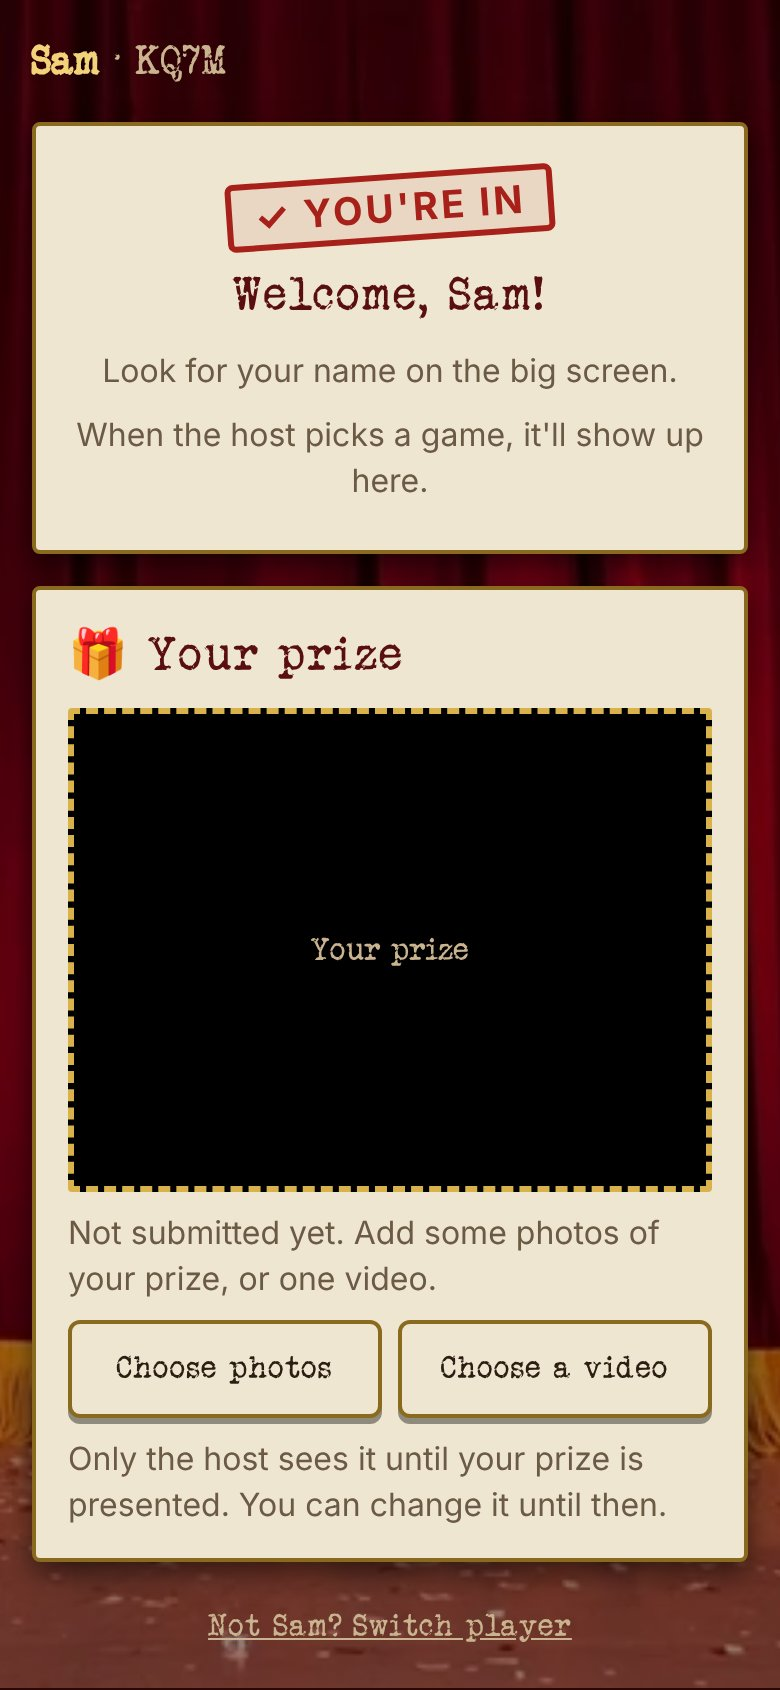
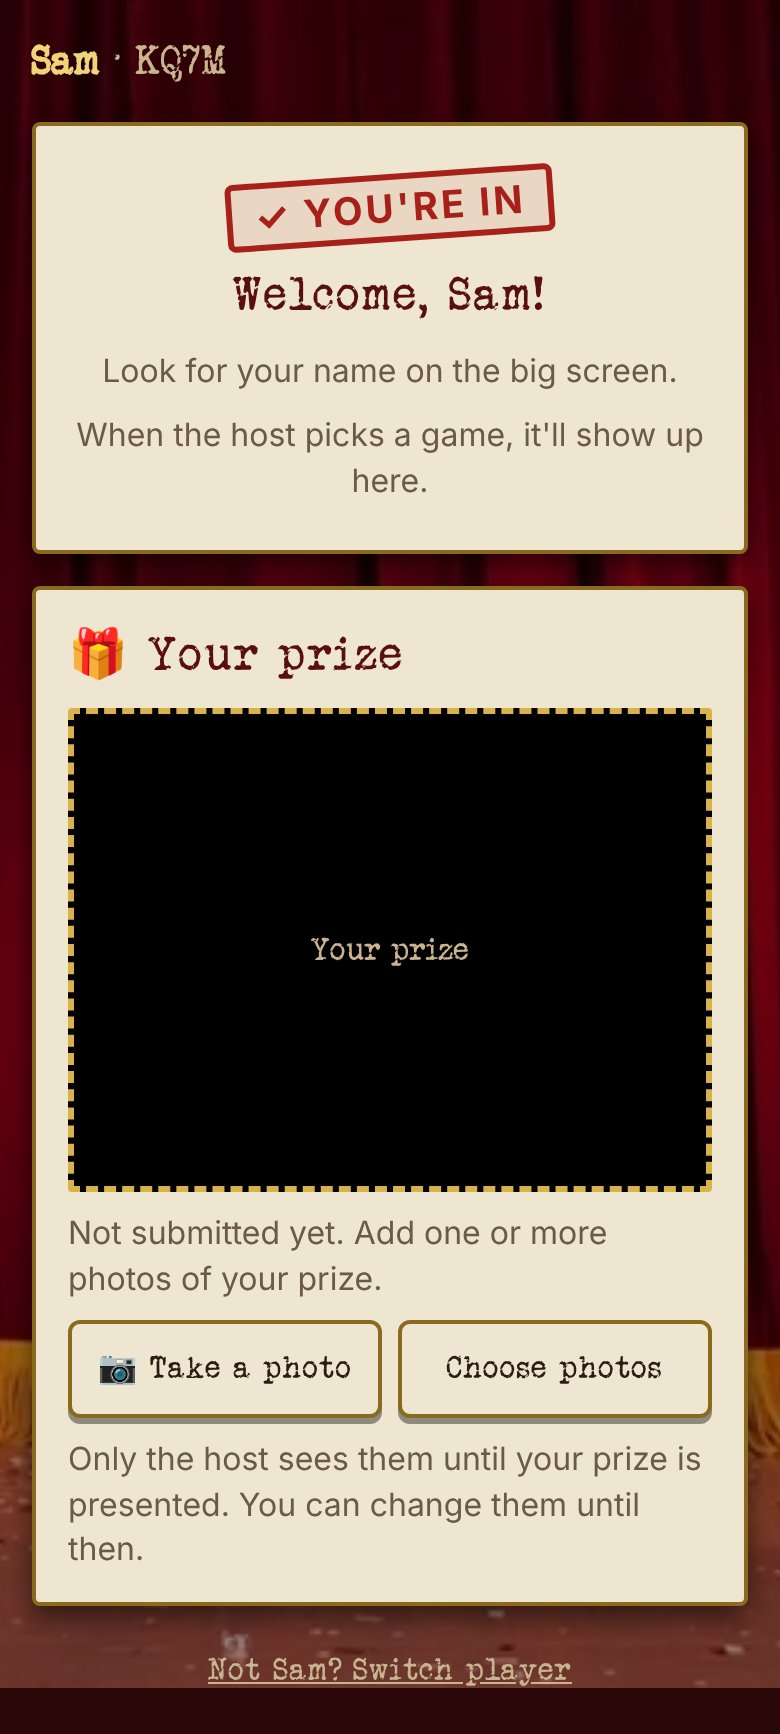
Prize task: photos only, with Photos' take-or-choose buttons
Claude-Session: https://claude.ai/code/session_014ghUjXRQwwSCMqfFBR6KAW

diff --git a/src/games/prize/PlayerView.tsx b/src/games/prize/PlayerView.tsx
@@ -2,26 +2,26 @@ import { useRef } from "react";
 
 /**
  * The prize task's card on a guest's phone, open from check-in until the host starts presenting their
- * prize. A prize is either some photos or one video, never both, so the two pickers are separate equal
- * paper buttons and the rule shows before anything is picked. No gold until something is picked.
- * Prizes are usually photographed at home, so both open the library; the phone's own picker still
- * offers the camera.
+ * prize. A prize is one or more photos. Guests often bring the prize itself, so taking and choosing weigh
+ * the same: Photos' two equal paper buttons, and no gold until something is picked. Choosing takes
+ * several at once; more can be added before submitting.
  */
-export function PrizeCard({ onPick }: { onPick: (files: File[], kind: "photos" | "video") => void }) {
-  const photos = useRef<HTMLInputElement>(null);
-  const video = useRef<HTMLInputElement>(null);
+export function PrizeCard({ onPick }: { onPick: (files: File[]) => void }) {
+  const camera = useRef<HTMLInputElement>(null);
+  const library = useRef<HTMLInputElement>(null);
+  const pick = (input: HTMLInputElement) => { onPick([...(input.files ?? [])]); input.value = ""; };
   return (
     <section className="slot task">
       <h2>🎁 Your prize</h2>
       <div className="ph">Your prize</div>
-      <p className="slot-hint">Not submitted yet. Add some photos of your prize, or one video.</p>
+      <p className="slot-hint">Not submitted yet. Add one or more photos of your prize.</p>
       <div className="row">
-        <button onClick={() => photos.current?.click()}>Choose photos</button>
-        <button onClick={() => video.current?.click()}>Choose a video</button>
+        <button onClick={() => camera.current?.click()}>📷 Take a photo</button>
+        <button onClick={() => library.current?.click()}>Choose photos</button>
       </div>
-      <p className="slot-hint">Only the host sees it until your prize is presented. You can change it until then.</p>
-      <input ref={photos} type="file" accept="image/*" multiple hidden onChange={(e) => { onPick([...(e.target.files ?? [])], "photos"); e.target.value = ""; }} />
-      <input ref={video} type="file" accept="video/*" hidden onChange={(e) => { onPick([...(e.target.files ?? [])], "video"); e.target.value = ""; }} />
+      <p className="slot-hint">Only the host sees them until your prize is presented. You can change them until then.</p>
+      <input ref={camera} type="file" accept="image/*" capture="environment" hidden onChange={(e) => pick(e.target)} />
+      <input ref={library} type="file" accept="image/*" multiple hidden onChange={(e) => pick(e.target)} />
     </section>
   );
 }

diff --git a/docs/redesign-decisions.md b/docs/redesign-decisions.md
@@ -223,11 +223,11 @@ Each contestant brings a prize; the winner takes the whole haul. Today the Prize
 | Moment | Decision | Rejected, and why |
 | --- | --- | --- |
 | Moments, in order | 1. A guest submits their prize. 2. The haul on the big screen when the winner is declared. 3. Presenting each prize during the task. 4. The host checks who's in. 5. Fixing a prize. | |
-| What a prize is | Some photos (one or more) or one video, never both. | Photos and a video mixed. |
+| What a prize is | One or more photos. | One video instead of photos (agreed at first, then dropped by Jeffrey: photos only). Photos and a video mixed. |
 | When guests submit | From check-in onward. | Only once the host opens the task: prizes are made ahead, so guests can get it done on arrival. |
 | Changing it | The guest can change it until the host starts presenting their prize. After that only the host can add photos to it. | Locked on submit, as in Photos: nothing is judged before it's presented, so a lock buys nothing. |
 | Presenting | The host sees previews of every photo and video in that guest's prize, and picks which one goes on the big screen. Nothing goes up until the host taps one. | Showing the first one automatically. |
-| Choosing (phone) | A "🎁 Your prize" card under the "✓ You're in" card: a "Your prize" placeholder, "Not submitted yet. Add some photos of your prize, or one video.", two equal paper buttons "Choose photos" (several at once) and "Choose a video", then "Only the host sees it until your prize is presented. You can change it until then." No gold until something is picked. Both open the library; the phone's own picker still offers the camera. *Proposed.* | One "Choose photos or a video" button: the either/or rule would only show up as an error after picking. A third "📷 Take a photo" button: prizes are usually photographed at home. |
+| Choosing (phone) | A "🎁 Your prize" card under the "✓ You're in" card: a "Your prize" placeholder, "Not submitted yet. Add one or more photos of your prize.", Photos' two equal paper buttons "📷 Take a photo" and "Choose photos" (several at once), then "Only the host sees them until your prize is presented. You can change them until then." No gold until something is picked. | "Choose photos" and "Choose a video" side by side (the first version, while videos were in). One "Choose photos or a video" button: the either/or rule would only show up as an error after picking. A lone "Choose photos": guests often bring the prize itself, so snapping it there is as likely as choosing from home, which is Photos' reason for two equal buttons. |
 
 ## Notes for building
 

diff --git a/docs/screens/README.md b/docs/screens/README.md
@@ -71,4 +71,4 @@ Scoreboard (taken on 2026-10-12, from the real components with made-up sessions;
 | `secret-tasks-player-envelope.jpg` | A guest's envelope: sealed ("Tap the seal to open it."), and open with "Seal it again" |
 | `secret-tasks-player-rules.jpg` | A guest's envelope with the circled ? beside the heading, closed and then open on the rules card |
 | `secret-tasks-host-send-back.jpg` | "Who has what" with Sam's ✎ open: Save, Cancel and "Send it back to the pile" |
-| `prize-player-choose.jpg` | Prize task on a guest's phone after check-in: "🎁 Your prize", "Choose photos" and "Choose a video" (proposed, in design) |
+| `prize-player-choose.jpg` | Prize task on a guest's phone after check-in: "🎁 Your prize", "📷 Take a photo" and "Choose photos" (in design) |
